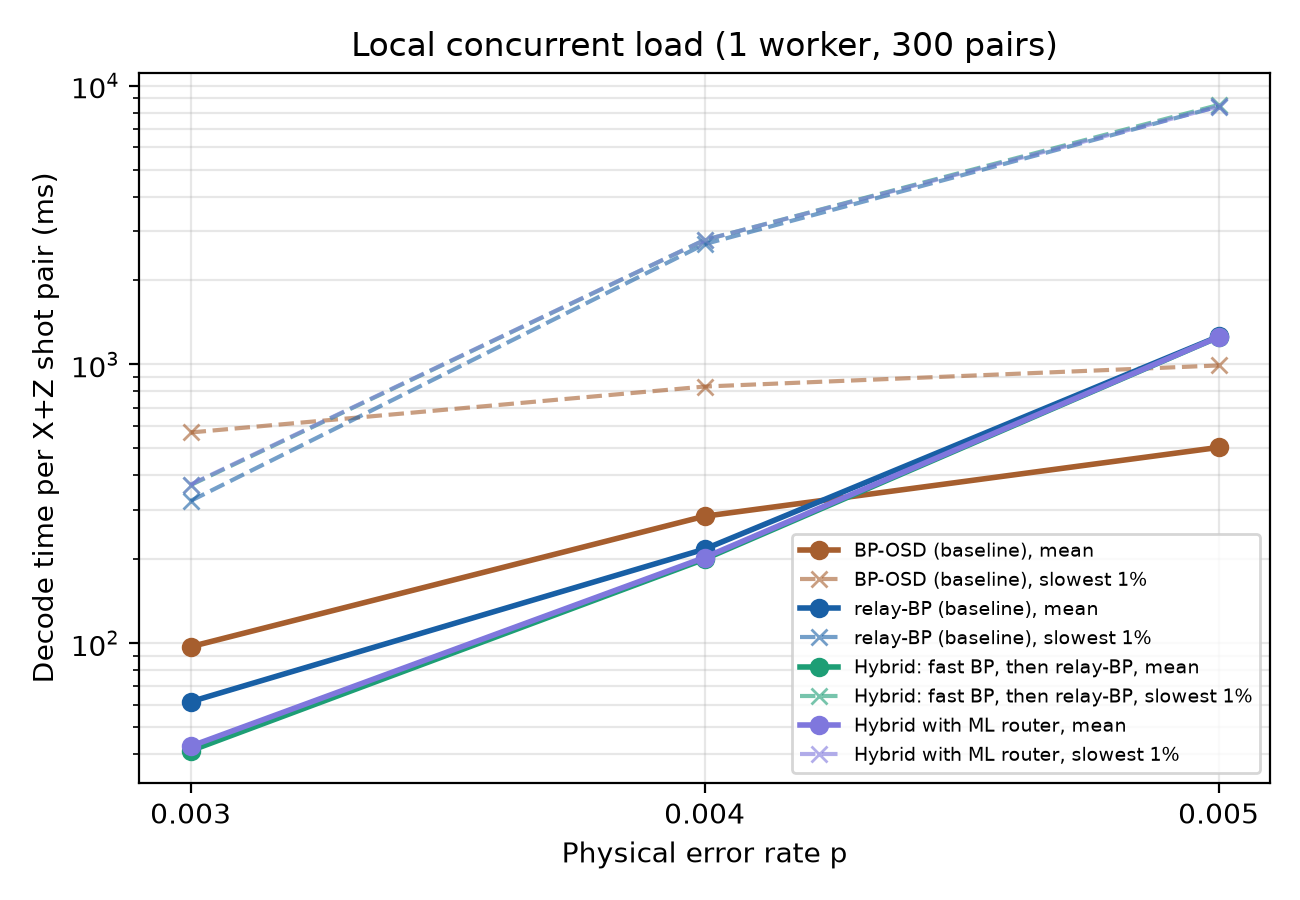
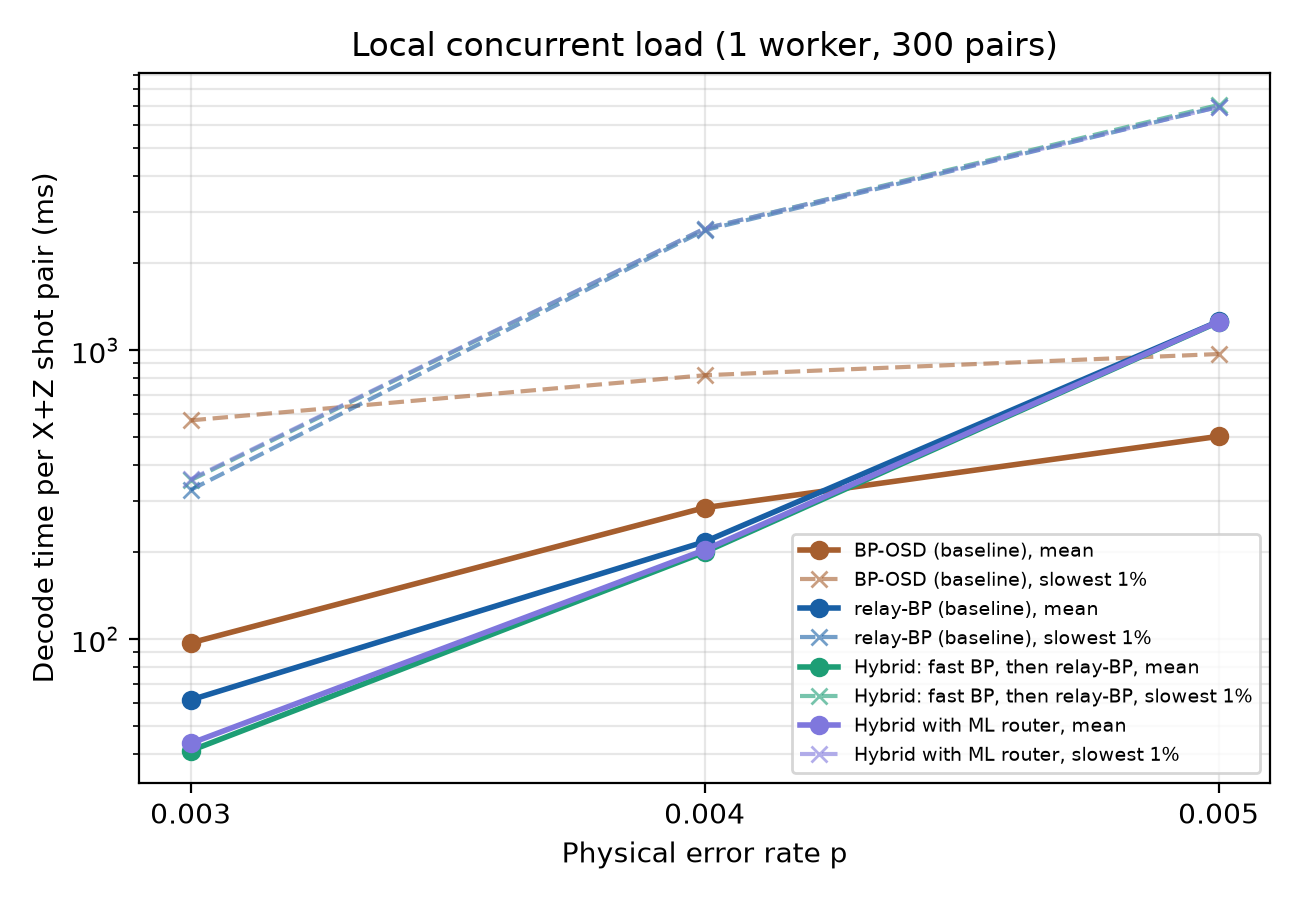
Headline relay-BP with loss flags; update docs, figures and timing tables for the review fixes
- README/PITCH/AUDIT: relay-BP flags ignored vs used, 41->2 (p=0.004, 20k pairs) and 138->6 (p=0.005, 10k pairs), 2-5x faster
- BP-OSD erasure and sweep numbers under independent X/Z pairing; stop_nconv wording corrected
- figures/relay_flags.png; RUN.md reproduces the relay-flags runs
- planning documents marked historical

Claude-Session: https://claude.ai/code/session_011bPWE2Uz1MYhyrDV9QQkmU

diff --git a/challenge-1-ml-decoder-kit/make_figures.py b/challenge-1-ml-decoder-kit/make_figures.py
@@ -1,6 +1,6 @@
 """Presentation figures from the saved results (seconds to run).
 
-  python make_figures.py      ->  figures/erasure.png, figures/speed.png
+  python make_figures.py      ->  figures/erasure.png, figures/relay_flags.png, figures/speed.png
 """
 import csv
 import os
@@ -47,6 +47,32 @@ ax.legend()
 ax.grid(alpha=0.3, which="both")
 fig.tight_layout()
 fig.savefig("figures/erasure.png", dpi=200)
+
+relay = [r for r in main if r["experiment"] == "erasure_relay"]
+if relay:
+    ps = sorted({r["p"] for r in relay})
+    fig, (a1, a2) = plt.subplots(1, 2, figsize=(10, 4.2))
+    width = 0.35
+    for i, (name, label, color) in enumerate([("relay", "relay-BP ignores loss flags", "#888780"),
+                                               ("relay_flags", "relay-BP uses loss flags", "#D85A30")]):
+        rs = [next(r for r in relay if r["p"] == p and r["decoder"] == name) for p in ps]
+        x = [j + (i - 0.5) * width for j in range(len(ps))]
+        pts = [point(r) for r in rs]
+        a1.bar(x, [p[0] for p in pts], width, yerr=[[p[1] for p in pts], [p[2] for p in pts]], capsize=4,
+               color=color, label=label, hatch=None)
+        for xi, r, p in zip(x, rs, pts):
+            a1.annotate(f"{int(r['failed_pairs'])}/{int(r['pairs'])}" + (" (bound)" if p[3] else ""), (xi, p[0] + p[2]),
+                        textcoords="offset points", xytext=(0, 4), ha="center", fontsize=8)
+        a2.bar(x, [r["mean_ms"] for r in rs], width, color=color, label=f"{label}: mean")
+        a2.scatter(x, [r["p99_ms"] for r in rs], marker="_", s=400, color="black", zorder=5,
+                   label="slowest 1%" if i == 0 else None)
+    for a in (a1, a2):
+        a.set_xticks(range(len(ps)), [f"p = {p:g}" for p in ps])
+    a1.set(yscale="log", ylabel="Logical error rate per cycle", title="Accuracy (same shots, 50% of noise flagged)")
+    a2.set(yscale="log", ylabel="Decode time per X+Z pair (ms)", title="Speed")
+    a1.legend(fontsize=8); a2.legend(fontsize=8)
+    fig.tight_layout()
+    fig.savefig("figures/relay_flags.png", dpi=200)
 
 def plot_timing(dirname, filename, title):
     timing = [r for r in rows(f"{dirname}/results.csv") if r["experiment"] == "sweep"]

diff --git a/README.md b/README.md
@@ -7,6 +7,18 @@ Infleqtion Challenge 1 (ML-assisted QEC decoding), MidQWest 2026. See [AUDIT.md]
 ## Results
 
 ### 1. Using erasure flags (headline)
+**relay-BP, the strongest decoder in the kit, with the loss flags.** relay-BP has no per-shot prior update, so it is rebuilt for every shot (about 17 ms, included in its time) on the flag-blind matrix, with each flagged location's error probability raised (`lossy.fold_priors`, combining identical effects by parity). 50% of gate/idle noise flagged as erasure; the same shots are decoded with flags ignored and with flags used.
+
+| p | Pairs | Flags ignored: failed pairs (rate/cycle) | Flags used | Failed only ignored / only used | Exact McNemar p | Mean time ignored → used | Slowest 1% ignored → used |
+|---|---|---|---|---|---|---|---|
+| 0.004 | 20,000 | 41 (1.7e-4) | **2** (8.3e-6) | 41 / 2 | 2e-10 | 176 → **80 ms** | 1,796 → **286 ms** |
+| 0.005 | 10,000 | 138 (1.2e-3) | **6** (5.0e-5) | 134 / 2 | 2e-37 | 581 → **119 ms** | 7,677 → **711 ms** |
+
+Roughly 20× fewer failed pairs, 2–5× faster on average and 6–11× faster on the slowest 1%. Timing was measured on one Apple laptop, 11 worker processes, both decoders on the same shots under the same load; read it as a ratio, not a latency guarantee. The ~20× is a ratio of small counts: the conservative reading is "over 10× fewer". Seeds 32 and 33 (p = 0.004) and 31 (p = 0.005); files `results/erase4_*`.
+
+![relay flags](challenge-1-ml-decoder-kit/figures/relay_flags.png)
+
+**BP-OSD with the loss flags** (the first experiment; the flags enter BP-OSD's priors through its per-shot update):
 These results include the corrected herald-conditioned prior calculation (see [AUDIT.md](AUDIT.md)); the erasure runs were regenerated locally after the fix.
 p = 0.004, 12 syndrome cycles, X and Z memory. The same simulated shots are decoded with flags hidden and with flags visible. Rates are logical errors per cycle with exact (Clopper-Pearson) 95% intervals.
 
@@ -14,7 +26,7 @@ p = 0.004, 12 syndrome cycles, X and Z memory. The same simulated shots are deco
 |---|---|---|---|---|
 | 0% | 4.3e-3 [3.2–5.6e-3] | 4.3e-3 (identical, as expected) | — | 1,000 |
 | 25% | 1.4e-3 [0.8–2.3e-3] | 6.7e-4 [2.9–13e-4] | ~2× | 1,000 |
-| 50% | 9.2e-4 [5.8–14e-4] | 1.3e-4 [0.3–3.7e-4] | **~7.3×** | 2,000 |
+| 50% | 9.6e-4 [6.1–14e-4] | 1.3e-4 [0.3–3.7e-4] | **~7.7×** | 2,000 |
 | 75% | 4.2e-4 [2.0–7.7e-4] | < 1.5e-4 (0 failures seen) | no failures to count | 2,000 |
 
 **Paired test on identical shots** (pairs where only one of the two decoders failed; exact McNemar test):
@@ -22,12 +34,12 @@ p = 0.004, 12 syndrome cycles, X and Z memory. The same simulated shots are deco
 | Noise flagged | Failed only with flags hidden | Failed only with flags used | p-value |
 |---|---|---|---|
 | 25% | 15 | 6 | 0.078 (not significant) |
-| 50% | 19 | 0 | 3.8e-6 |
+| 50% | 20 | 0 | 1.9e-6 |
 | 75% | 10 | 0 | 0.002 |
 
-At 50%, 22 pairs failed with flags hidden versus 3 with flags used. Using the flags never caused a failure that the flag-blind decoder avoided. The "~7.3×" is the ratio of those counts, and its uncertainty is wide (the 95% intervals in the table above), so read it as "several times fewer".
+At 50%, 23 pairs failed with flags hidden versus 3 with flags used. At 50% and 75%, using the flags never caused a failure that the flag-blind decoder avoided; at 25%, 6 pairs failed only with flags (the 25% result is not significant). The "~7.7×" is the ratio of those counts, and its uncertainty is wide (the 95% intervals in the table above), so read it as "several times fewer".
 
-**Scope:** the flags were tested with BP-OSD, the decoder whose priors can be updated per shot. relay-BP is about 7× more accurate than BP-OSD at p = 0.004 without erasure, and it was not run with flags (its API has no per-shot prior update). The 0% row (4.3e-3 on 1,000 pairs) and the sweep's BP-OSD at p = 0.004 (4.1e-3 on 2,000 different pairs) agree within their intervals.
+**Scope:** this table is BP-OSD only; the relay-BP result above uses a different flag mechanism (rebuild per shot on the blind matrix) and needs no extra columns. The 0% row (4.3e-3 on 1,000 pairs) and the sweep's BP-OSD at p = 0.004 (4.3e-3 on 2,000 different pairs) agree.
 
 ![erasure](challenge-1-ml-decoder-kit/figures/erasure.png)
 
@@ -37,21 +49,23 @@ At 50%, 22 pairs failed with flags hidden versus 3 with flags used. Using the fl
 ### 2. Required sweep: baselines and hybrid decoders
 Logical error rate per cycle (95% CI) and failed pairs, same test shots for every decoder:
 
+*Pairing:* X and Z runs that share a seed get the same Stim random stream, so their shots are correlated. Each X shot is therefore paired with a different, fixed random Z shot (`analyze.z_partner`), which makes the two halves of a pair independent, as in the kit's baseline. Every decoder uses the same pairs.
+
 | p | relay-BP | BP-OSD | Hybrid (rule) | Hybrid (ML router) | Kit reference (relay / BP-OSD) |
 |---|---|---|---|---|---|
-| 0.003 | 3.3e-5 (2/5,000) | 3.3e-4 (20/5,000) | 3.3e-5 (2/5,000) | 3.3e-5 (2/5,000) | 4.2e-5 / 4.7e-4 |
-| 0.004 | 6.3e-4 (15/2,000) | 4.1e-3 (97/2,000) | 6.3e-4 (15/2,000) | 6.3e-4 (15/2,000) | 8.7e-4 / 4.4e-3 |
-| 0.005 | 6.3e-3 (145/2,000) | 2.2e-2 (469/2,000) | 6.3e-3 (145/2,000) | 6.3e-3 (145/2,000) | 6.9e-3 / 2.3e-2 |
+| 0.003 | 3.3e-5 (2/5,000) | 3.2e-4 (19/5,000) | 3.3e-5 (2/5,000) | 3.3e-5 (2/5,000) | 4.2e-5 / 4.7e-4 |
+| 0.004 | 6.3e-4 (15/2,000) | 4.3e-3 (100/2,000) | 6.3e-4 (15/2,000) | 6.3e-4 (15/2,000) | 8.7e-4 / 4.4e-3 |
+| 0.005 | 6.8e-3 (158/2,000) | 2.3e-2 (492/2,000) | 6.8e-3 (158/2,000) | 6.8e-3 (158/2,000) | 6.9e-3 / 2.3e-2 |
 
-Both hybrids have the same observed failed-pair count as relay-BP at all three tested noise levels; this finite sample does not prove equal underlying error rates. The hybrid is close to relay-BP with an early exit: relay-BP's first leg is BP, and the kit runs it until 5 solutions agree (`stop_nconv=5`), while the hybrid accepts BP's first converged answer.
+Both hybrids have the same observed failed-pair count as relay-BP at all three tested noise levels; this finite sample does not prove equal underlying error rates. The hybrid is close to relay-BP with an early exit: relay-BP's first leg is BP, and the kit keeps running relay legs until 5 solutions have been found (`stop_nconv=5`) and returns the best of them, while the hybrid accepts BP's first converged answer.
 
 **Decode time** (one idle laptop, 1 thread, 300 X+Z pairs per p):
 
 | p | relay-BP mean / slowest 1% | Hybrid (rule) mean / slowest 1% | Hybrid (ML) mean | Shots escalated (rule) |
 |---|---|---|---|---|
-| 0.003 | 97 / 672 ms | **58** / 713 ms | 62 ms | 5% |
-| 0.004 | 482 / 7,054 ms | 422 / 7,099 ms | 427 ms | 23% |
-| 0.005 | 2,155 / 13,455 ms | 2,165 / 13,590 ms | 2,164 ms | 56% |
+| 0.003 | 97 / 487 ms | **58** / 529 ms | 61 ms | 5% |
+| 0.004 | 482 / 7,200 ms | 422 / 7,134 ms | 425 ms | 23% |
+| 0.005 | 2,155 / 10,568 ms | 2,165 / 10,712 ms | 2,163 ms | 56% |
 
 ![speed](challenge-1-ml-decoder-kit/figures/speed.png)
 
@@ -60,9 +74,9 @@ Both hybrids have the same observed failed-pair count as relay-BP at all three t
 
 | p | BP-OSD | relay-BP | Hybrid rule | Hybrid ML |
 |---|---:|---:|---:|---:|
-| 0.003 | 97 / 570 | 62 / 324 | 41 / 369 | 43 / 370 |
-| 0.004 | 285 / 832 | 217 / 2700 | 200 / 2793 | 203 / 2795 |
-| 0.005 | 503 / 991 | 1259 / 8414 | 1253 / 8523 | 1254 / 8415 |
+| 0.003 | 97 / 572 | 62 / 329 | 41 / 355 | 44 / 357 |
+| 0.004 | 285 / 819 | 217 / 2604 | 200 / 2635 | 204 / 2638 |
+| 0.005 | 503 / 970 | 1259 / 6954 | 1253 / 7063 | 1256 / 6958 |
 
 ![local speed comparison](challenge-1-ml-decoder-kit/figures/speed_local.png)
 
@@ -80,11 +94,11 @@ The router does not beat a single threshold. BP's own convergence check is alrea
 **Upper bound for any router** (from the clean timing cache): even a *perfect* router, which skips BP exactly on the shots where it won't converge, would cut the hybrid's mean time by only 16.5% at p = 0.003, 7.8% at p = 0.004 and 3.7% at p = 0.005. Routing on convergence has little to gain. Learning would be better spent elsewhere, for example on per-shot priors.
 
 ## Where it works and where it falls short
-- **Works:** using erasure flags gives large, statistically significant accuracy gains on the Gross code (BP-OSD). The simple hybrid keeps relay-BP accuracy and is ~1.7× faster on average at low noise (p = 0.003).
+- **Works:** using erasure flags gives large, statistically significant accuracy gains on the Gross code, for BP-OSD and for relay-BP; with relay-BP the flags also make decoding 2–5× faster. The simple hybrid keeps relay-BP accuracy and is ~1.7× faster on average at low noise (p = 0.003).
 - **Falls short:**
   - The slowest 1% of shots do not get faster.
   - There is no speedup at p = 0.005.
-  - Flag-aware decoding costs about 6.5× more time at 50% erasure.
+  - Flag-aware *BP-OSD* costs about 6.5× more time at 50% erasure (flag-aware relay-BP is faster, not slower).
   - The ML router does not outperform the simple convergence rule.
   - Error bars at p = 0.003 are wide, with only 2–3 failures.
 - **Model limits:** erasures are *idealized*. Flags fire instantly at the gate with the exact location, and the qubit returns to the code space. Real atom loss is detected later and a lost atom keeps causing errors. Preparation and measurement errors are not converted. The DEM/decoder also approximates correlations between disjoint Pauli outcomes; corrected conditional marginals do not make it an exact joint decoder.

diff --git a/AUDIT.md b/AUDIT.md
@@ -63,18 +63,43 @@ All six nonzero-erasure X/Z runs were regenerated with both decoders together;
 training seeds, test seeds and shot counts were preserved. The no-erasure sweep
 is unaffected. Prior results remain available in Git history, not as current claims.
 
-Corrected paired results:
+Corrected paired results (BP-OSD; X shot k paired with a fixed random Z shot, see below):
 
 | Erasure fraction | Pairs | Flags hidden failures | Flags used failures | Exact paired p-value |
 |---|---:|---:|---:|---:|
 | 0% | 1,000 | 50 | 50 | 1 |
 | 25% | 1,000 | 17 | 8 | 0.0784 |
-| 50% | 2,000 | 22 | 3 | 3.81e-6 |
+| 50% | 2,000 | 23 | 3 | 1.9e-6 |
 | 75% | 2,000 | 10 | 0 | 0.00195 |
 
-At 50%, the observed failure-count ratio is 7.3x, with about 6.5x more decode time.
+At 50%, the observed failure-count ratio is about 7.7x, with about 6.5x more decode time.
 At 25%, improvement is not statistically established. Zero failures at 75% is an
 upper-bound result, not zero underlying error probability. See README for intervals.
+
+## Independent review fixes (2026-11-21)
+
+An outside review of revision ac4c133 found, and this revision fixes:
+
+- **Correlated X/Z pairs.** X and Z runs with one seed get the same Stim random stream
+  (syndrome-weight correlation about 0.5; at p=0.005, 15 shared relay failures where about
+  3 are expected). Each X shot is now paired with a fixed random derangement of the Z shots
+  (`analyze.z_partner`), making a pair's two halves independent as in the kit. All decoders
+  share the same pairs. Sweep counts moved toward the kit references (relay p=0.005:
+  145 -> 158 of 2,000, rate 6.8e-3 vs kit 6.9e-3).
+- **relay_flags prior folding** now combines identical effects by parity, (1 - prod(1-2q))/2,
+  keeping exact 0.5. All relay-flags results were regenerated after this fix.
+- **Analysis guards:** X/Z shapes must match (no broadcasting); stored basis/p/f/seed must match
+  file names; `bp_flags` and `relay_flags` are analyzed; `erase4_*` relay-flags files are
+  analyzed and audited.
+- Not changed: `demo.py` prints WRONG without failing, because a correct decoder can fail on
+  a noisy shot; pass/fail decoding checks live in the tests.
+
+## Relay-BP with loss flags
+
+| p | Pairs | Flags ignored failures | Flags used failures | Only ignored / only used | Exact paired p-value | Mean ms ignored -> used |
+|---|---:|---:|---:|---:|---:|---:|
+| 0.004 | 20,000 | 41 | 2 | 41 / 2 | 2.2e-10 | 176 -> 80 |
+| 0.005 | 10,000 | 138 | 6 | 134 / 2 | 2.1e-37 | 581 -> 119 |
 
 ## Remaining limitations and optional work
 

diff --git a/PITCH.md b/PITCH.md
@@ -1,7 +1,7 @@
 # Pitch notes (not part of the code spec)
 
 ## Pitch cheat sheet
-**Claim:** "Neutral atoms can convert some errors into flagged erasures. On the Gross code, decoding the same shots with the flags gave 3 failures instead of 22 (about 7× fewer, p < 0.0001) when half the noise was flagged. The cost is about 6.5× more decode time. We also asked where learning belongs in a hierarchical decoder: our learned convergence router did not beat the simple rule on these data. An oracle that knows BP convergence would save under 17% of the rule hybrid's mean time in the historical timing cache; this does not rule out other learned decoders."
+**Claim:** "Infleqtion's atoms announce when they are lost. We feed those flags to relay-BP, the strongest decoder in the kit. With half the noise flagged, on the same simulated shots, failures drop from 41 to 2 (p = 0.004, 20,000 pairs) and from 138 to 6 (p = 0.005), and decoding gets 2–5× faster on average and 6–11× faster on the slowest 1%. Flags are idealized: instant and exact. Our learned convergence router did not beat a simple rule; we report that honestly."
 
 **Order:** (1) problem: atoms flag some failures; (2) erasure result: the headline; (3) speed and the router finding; (4) limits and next steps.
 

diff --git a/SPEC.md b/SPEC.md
@@ -1,3 +1,5 @@
+> **Historical planning document.** Written before the experiments; some plans here were changed by the results. For how to reproduce the results, see `challenge-1-ml-decoder-kit/RUN.md` and `README.md`.
+
 # Historical planning spec (superseded)
 
 This document records hypotheses and planned filenames, not the final implementation or acceptance criteria. See [AUDIT.md](AUDIT.md), [README.md](README.md), and [RUN.md](challenge-1-ml-decoder-kit/RUN.md) for current behavior. In particular, both baselines are now required and available at all three p values; flag-blind error rates can fall with erasure conversion; ML superiority is not established.

diff --git a/challenge-1-ml-decoder-kit/RUN.md b/challenge-1-ml-decoder-kit/RUN.md
@@ -39,6 +39,13 @@ for f in 0 0.25 0.5 0.75; do
       --decoders bposd bposd_flags --workers 4 --out "results_reproduced/erase_${b}_p0.004_f${f}.npz"
   done
 done
+for job in "0.004 32" "0.004 33" "0.005 31"; do
+  set -- $job
+  for b in X Z; do
+    .venv/bin/python run_job.py --basis "$b" --p "$1" --f 0.5 --shots 10000 --seed "$2" \
+      --decoders relay relay_flags --out "results_reproduced/erase4_${b}_p$1_f0.5_s$2.npz"
+  done
+done
 .venv/bin/python analyze.py --dir results_reproduced
 .venv/bin/python audit_submission.py --dir results_reproduced --out results_reproduced/audit.json
 ```

diff --git a/TEAM_PLAN.md b/TEAM_PLAN.md
@@ -1,3 +1,5 @@
+> **Historical planning document.** Written before the experiments; some plans here were changed by the results. For how to reproduce the results, see `challenge-1-ml-decoder-kit/RUN.md` and `README.md`.
+
 # Team plan: who does what, step by step
 
 Five computers, one job each. p = 0.003 is the slowest job (rare failures need many shots), so it gets two computers. Agastya runs the analysis on any computer; it takes seconds.

diff --git a/PROMPTS.md b/PROMPTS.md
@@ -1,3 +1,5 @@
+> **Historical planning document.** Written before the experiments; some plans here were changed by the results. For how to reproduce the results, see `challenge-1-ml-decoder-kit/RUN.md` and `README.md`.
+
 # Copy-paste prompts, one per computer
 
 Each person pastes their block into Claude (Claude Code on their laptop, or any Claude that can run commands), or runs the commands themselves.
